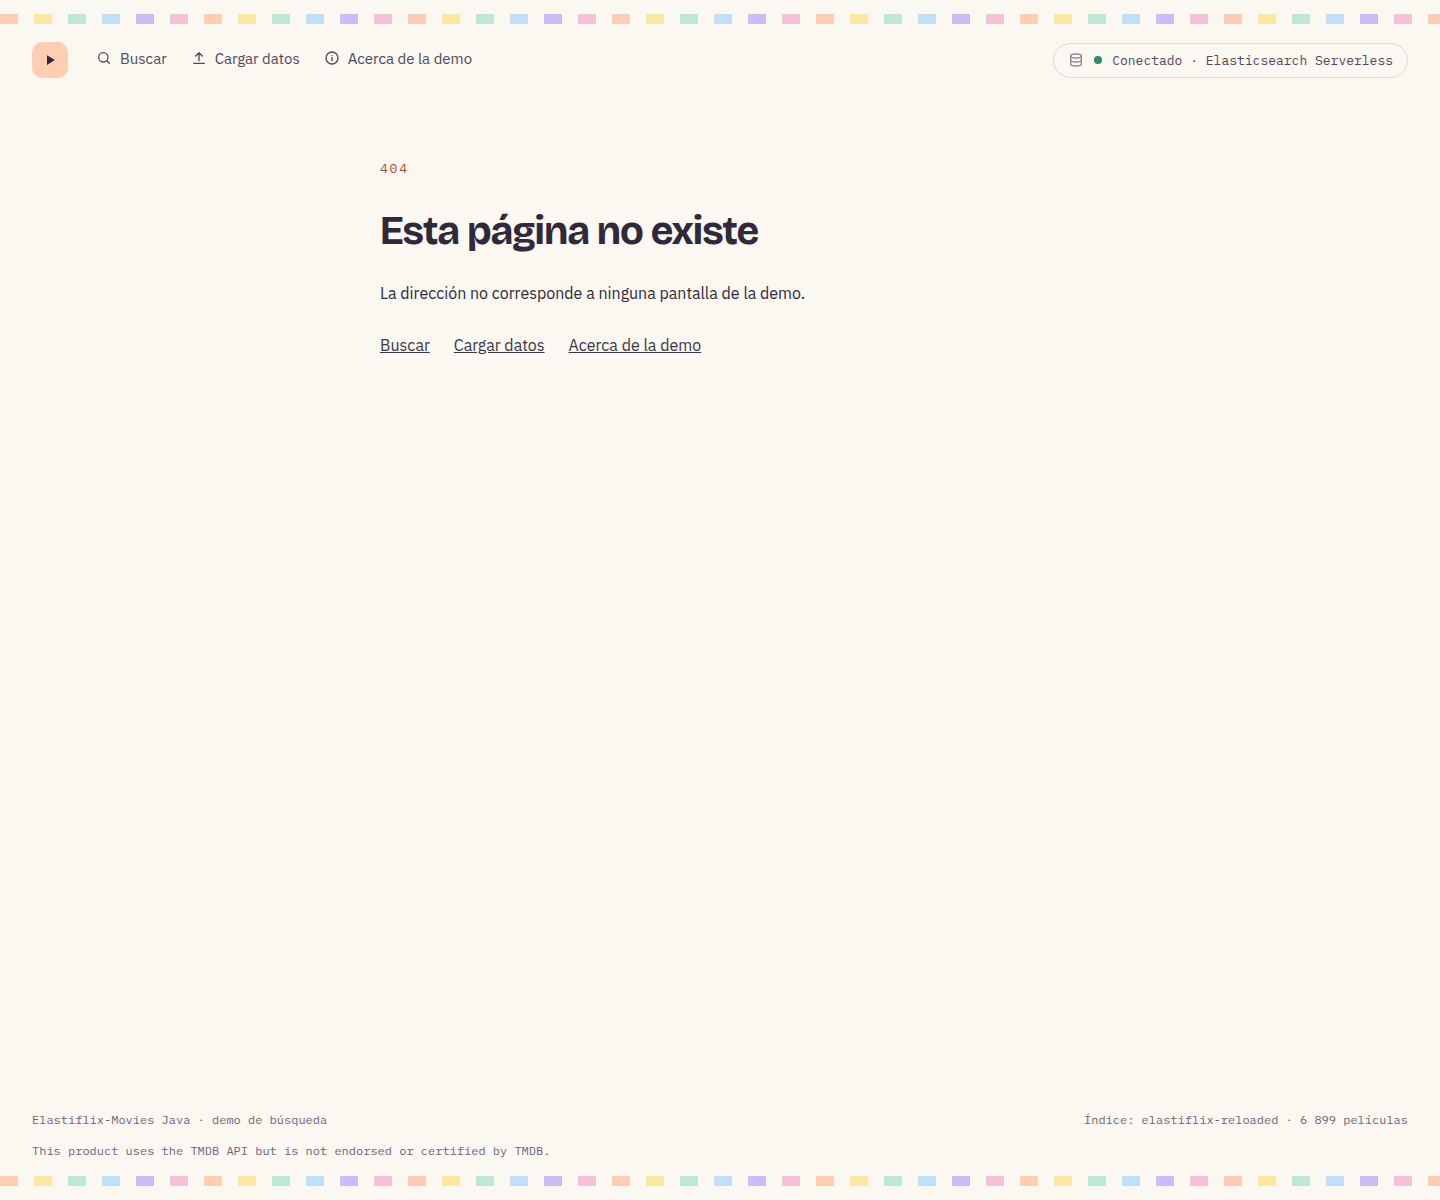
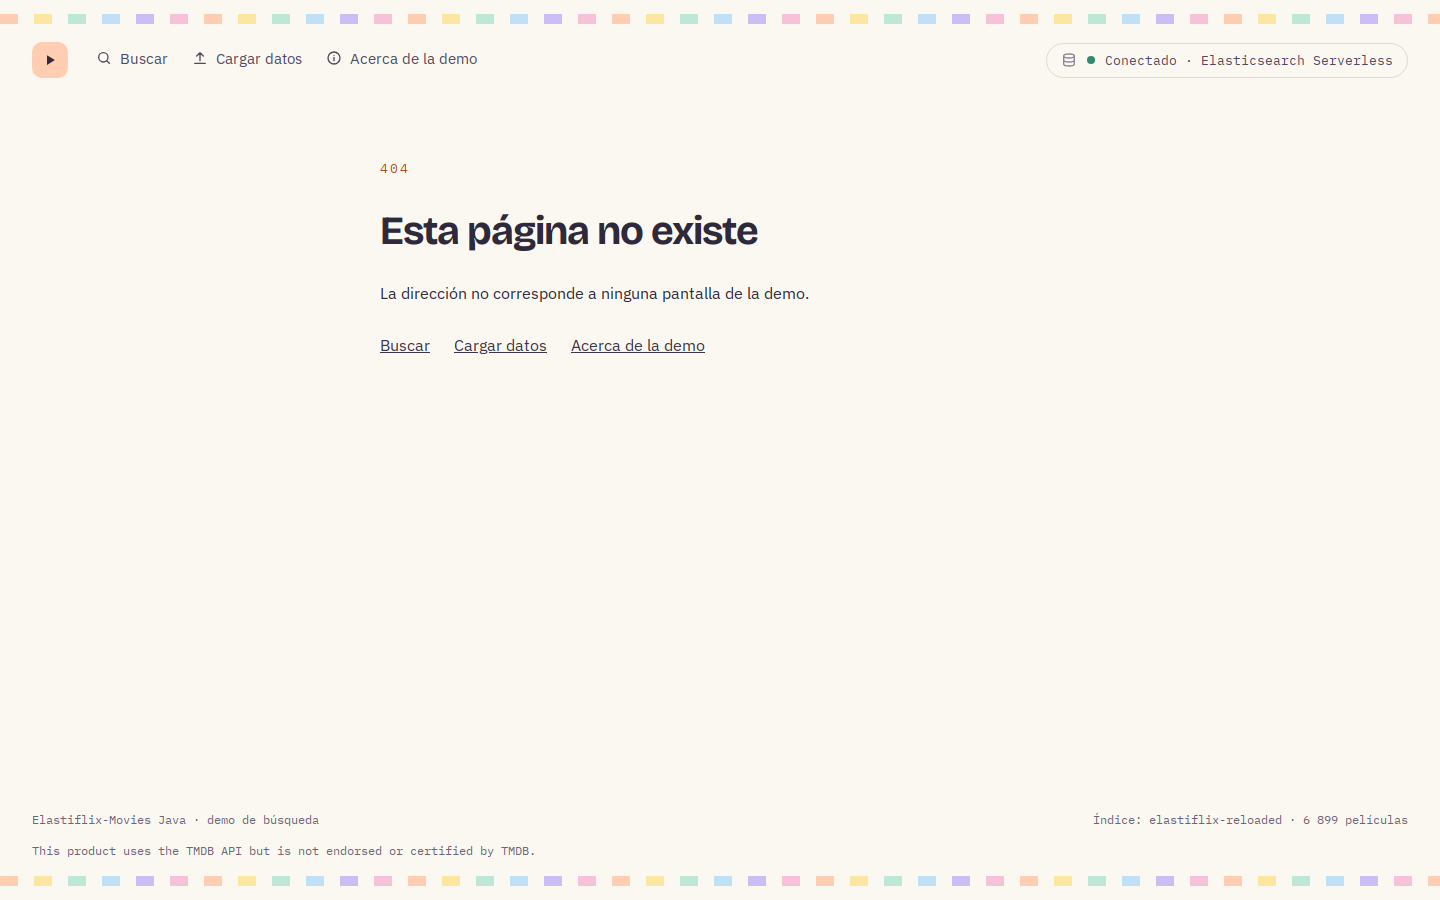
S-18: capturas de página completa con datos reales y comparación nueva

diff --git a/progreso/4.md b/progreso/4.md
@@ -78,17 +78,27 @@ Respuestas a `docs/convenciones-java.md` §16:
 - [x] ¿Las pruebas de integración de escritura usan su propio alias y lo borran al terminar? Esta fase no escribe en Elasticsearch. Las pruebas de página simulan las fachadas. Arrancar la aplicación solo leyó `elastiflix-reloaded`.
 - [x] ¿Un programador Junior entendería las clases principales sin explicación adicional? Sí. Cada página es un controlador y una plantilla. Javadoc en español y nombres en inglés.
 
-## Comparación con los mockups (R-21)
+## Comparación con los mockups (R-21, rehecha en S-18)
 
-Capturas del 2026-10-18 17:45 UTC, ventana 1440 px, aplicación en http://localhost:8080 leyendo el alias vigente. Quedan en `docs/capturas/`. Adolfo Orozco aprobó la fidelidad visual el 2026-10-18; queda en `progreso/INDICE.md`.
+Capturas de página completa del 2026-10-18 23:00 UTC, ventana 1440 px, Chromium 131 (Playwright 1.49.1), con
+la aplicación conectada al alias `elastiflix-reloaded` real (índice `elastiflix-reloaded-20261018-054429`,
+6 899 películas). Quedan en `docs/capturas/`. Sustituyen a las cinco de R-21, que no reflejaban la interfaz
+(S-18). La aprobación de R-21 ya no vale para estas; la confirmación nueva queda en `progreso/INDICE.md`.
 
-| Página | Captura | Mockup | Qué coincide |
-|---|---|---|---|
-| Inicio | `inicio.png` | `design/mockups/Main.dc.html` | Cabecera Buscar, Resultados, Cargar datos y Acerca de; título «Elastiflix-Movies Java»; modos Full-text, Vectorial e Híbrida; campo de consulta; sugerencias en tonos pastel. |
-| Resultados | `resultados.png` | `design/mockups/Results.dc.html` | «57 resultados» y «Mostrando 1–25 de 57 resultados»; panel Filtros; chips «Campo: title» y «Operador: OR»; título «Puntuación»; selector 25/50/100; tarjetas con póster, año, géneros y posición. |
-| Cargar datos | `cargar.png` | `design/mockups/Ingest.dc.html` | Título «Cargar datos»; tarjetas de archivo y de registro; «Archivo JSON»; tabla «Se recibió / El mapping espera»; «Importación bloqueada» y el paso 4. |
-| Acerca de | `acerca.png` | `design/mockups/About.dc.html` | «Acerca de la demo»; los tres modos; tabla de precisión; catálogo `elastiflix-reloaded` con el conteo real (6 899), no el 4 322 fijo del mockup. El rótulo histórico queda en R-30. |
-| 404 | `no-encontrada.png` | no hay mockup; lo pide el plan | «Esta página no existe». Enlaces a Buscar (`/`), Cargar datos y Acerca de. No enlaza `/buscar` sin consulta. |
+| Página | Captura | Mockup | Qué coincide | Diferencias que quedan |
+|---|---|---|---|---|
+| Inicio | `inicio.png` | `Main.dc.html` | Navegación Buscar, Cargar datos y Acerca de la demo (sin «Resultados»); insignia «Conectado · Elasticsearch Serverless»; título «Elastiflix-Movies Java»; modos Full-text, Vectorial e Híbrida; panel celeste con match/multi-match, title/original_title, OR/AND y la nota BM25; sugerencias Spirited Away, dark knight y love story en pastel. | Las etiquetas de las sugerencias («OR: 40 resultados», «OR: 65 resultados») son las del mockup y describen el catálogo histórico de 4 322 películas (PLAN §1); sobre las 6 899 actuales, «dark knight» OR da 57. |
+| Resultados · Full-text | `resultados-fulltext.png` | `Results.dc.html` | «dark knight», match · title · OR: «57 resultados», «Ordenados por puntuación BM25», chips Full-text, `match · title`, `OR` y «Cambiar ajustes»; panel Filtros rosa con leyendas (adulto, géneros, fecha, idiomas, clasificación) y «Aplicar»; tarjetas con posición sobre el póster, título, meta mono, sinopsis, estrella y votos; columna «Puntuación BM25»; selector 25; paginación «Anterior 1 2 3 Siguiente» con la actual en durazno; nota final sobre BM25. | Ninguna de forma. Los títulos y conteos son los del catálogo real. |
+| Resultados · Vectorial | `resultados-vectorial.png` | `Results.dc.html` | Consulta en español, `plot_1024`, k 100, `num_candidates` 200: «100 resultados», «Ordenados por similitud k-NN», aviso de que k-NN devuelve como máximo k y los filtros se calculan sobre esos resultados, facetas con conteos de la página, columna «Similitud k-NN», paginación de 4 páginas, nota sobre coseno. | Ninguna de forma. |
+| Resultados · Híbrida | `resultados-hibrida.png` | `Results.dc.html` | `plot_256`, match · title · OR, k 100: «100 resultados», «Ordenados por fusión RRF», aviso de `rank_window_size = k`, columna «Puntuación en cada lista» con BM25, Similitud k-NN con la posición en cada lista y RRF; Titanic primero. | Ninguna de forma. |
+| Cargar datos · Registro individual | `cargar-registro.png` | `Ingest.dc.html` | Etiqueta «Índice elastiflix-reloaded», «Cargar datos», texto de los tres vectores, pestañas con su pastel; cinco tarjetas (Identificación y títulos, Sinopsis y textos, Clasificación fecha y estado, Métricas, Reparto producción y medios) con el nombre del campo en mono; «Limpiar» y «Guardar película». | El selector de fecha muestra `mm/dd/yyyy` porque lo dibuja Chromium con la configuración regional en inglés; el valor enviado es `yyyy-MM-dd`. |
+| Cargar datos · CSV válido | `cargar-csv-valido.png` | `Ingest.dc.html` | `movies-sample.csv` (fixture de 4 filas, 34 columnas): zona de arrastre con «Solo .csv», «Máximo 150 MB», «Texto UTF-8»; separador, codificación y casilla de encabezado; pasos 1 a 3 completados y paso 4 «listo para empezar»; tabla «Correspondencia de columnas» (34 de 34; `genres` «Lista JSON de textos», `cast` «Lista JSON de textos», `keywords` «Lista JSON de objetos anidados», `user_score` «Sin datos», `plot_*` «Se ignora»); cajas 4 · 4 · 4 · 0; dos comprobaciones; aviso amarillo de `plot_*`; tarjeta «Importación» con «0 de 4 importadas · lote 0 de 1 · índice temporal elastiflix-reloaded-AAAAMMDD-HHMMSS» e «Importar 4 registros». No se importó nada. | El tamaño se muestra en MB con un decimal («0.1 MB»). |
+| Cargar datos · CSV inválido | `cargar-csv-invalido.png` | `Ingest.dc.html` | `peliculas-nuevas.csv` (7 columnas, 4 filas, preparado para la captura): paso 3 «detenido» en rojo; columna `director` «No existe en el mapping»; cajas 4 · 1 · 0 · 4; alerta rosa «La carga se detuvo…» con «4 errores en 3 registros» y la tabla Fila/Id/Campo/Se recibió/El mapping espera (encabezado `director`; fila 3 `release_date` «16/07/1999»; fila 4 `adult` «yes»; fila 5 `vote_count` «12.5»); «Descargar informe completo (.csv)»; «Importación bloqueada». | Un archivo de menos de 0,05 MB muestra «0.0 MB». |
+| Acerca de | `acerca.png` | `About.dc.html` | Etiqueta «Acerca de la demo», «Tres formas de buscar una película», tres tarjetas en fila con icono; secciones Full-text, Vectorial, Híbrida, Resultados y filtros, Carga de datos y El catálogo con encabezado de icono; paneles BM25 celeste, k-NN y precisión verdes, RRF lila, «Cuando no hay resultados» rosa; tabla de precisión; tabla de campos del catálogo; «Créditos» con el texto y el logo de TMDB. | El texto del catálogo da el conteo real (6 899) en lugar del 4 322 fijo del mockup; la tabla de precisión y los datos de `adult` y `release_date` se rotulan como medidos en el catálogo original de 4 322 (D3). |
+| 404 | `no-encontrada.png` | no hay; lo pide el plan | «404», «Esta página no existe», enlaces Buscar (`/`), Cargar datos y Acerca de la demo; pie con el conteo real. | — |
+
+En todas: pie «Elastiflix-Movies Java · demo de búsqueda», «Índice: elastiflix-reloaded · 6 899 películas» y la
+atribución de TMDB en texto; bandas de color arriba y abajo.
 
 ## Bloqueos y solicitudes
 

diff --git a/progreso/revision-2.md b/progreso/revision-2.md
@@ -19,12 +19,10 @@ en curso
 ## Punto de reanudación
 
 - **Tarea actual:** S-18 (después S-19)
-- **Subpaso en curso:** ninguno
-- **Próximo paso:** S-18: arrancar la app con el `.env`, sacar capturas de página completa con datos reales
-  (Inicio; Resultados en los tres modos; Cargar datos en sus tres escenarios; Acerca de; 404) a
-  `docs/capturas/`, escribir la comparación página por página en `progreso/4.md` y pedir a Adolfo la
-  confirmación visual. Después, S-19.
-- **Última actualización:** 2026-10-18 22:55 UTC
+- **Subpaso en curso:** S-18 esperando la confirmación visual de Adolfo sobre las nueve capturas nuevas
+- **Próximo paso:** S-18: registrar la respuesta de Adolfo en «Aprobaciones» de `progreso/INDICE.md` (o
+  corregir lo que señale y rehacer las capturas) y cerrar la fila de S-18. Después, S-19.
+- **Última actualización:** 2026-10-18 23:03 UTC
 
 ## Tareas
 
@@ -50,7 +48,7 @@ en curso
 | S-15 | terminada | `cf177a4` | «Aprobaciones» de `progreso/INDICE.md` tiene una fila para D1, D2, D3 y el cambio del mockup de B-05. Cada una dice lo que consta: las tomó el agente y Adolfo las aceptó al fusionar el PR #10 (`dc9a315`) o el #12 (`41c1188`); no se inventa una aprobación explícita. `progreso/revision-1.md`: R-04, R-09, R-11, R-12, R-15, R-16, R-18, R-19 y R-21 pasan a `incompleta` con «Incompleta: continúa en S-NN (revisión 2).» (9 filas). PLAN 3.0 y 3.2 y `docs/diseno/3.md` (supuesto 9, «Lectores», «Alternativas descartadas», «Cambios» con D2 y la nota de `EFX-ES-007`) describen la ingesta en memoria; `grep -n -i streaming PLAN.md docs/diseno/3.md` solo lo muestra como alternativa descartada o como el supuesto reemplazado. |
 | S-16 | terminada | `62c089d` | PLAN §1: encabezado «decisiones del usuario del 2026-10-17 y 2026-10-18»; filas nuevas del prefijo de las sinopsis (R-10 y el mockup editado en B-05) y de «Medido en el catálogo original de 4 322 películas» (R-30, D3). Comparación de textos visibles de los mockups con las páginas servidas (script `textdiff.py` sobre el HTML; en Resultados, el HTML de MockMvc de los tres modos, y cada texto que arma el script del mockup buscado palabra por palabra en su fuente): Inicio sin diferencias (las sugerencias salen del script del mockup); Resultados: leyendas, notas de límite, «Ordenados por…», títulos de puntuación, «Todos», «Solo no adultos», «Géneros: » y «Mostrando » están en el mockup; Cargar datos: las diferencias son las filas de §1 de S-03; Acerca de: las de D3 y un punto de más en «25 · 50 · 100 por página.», corregido (vuelve a ser `dt`/`dd` como en el mockup). Lo demás es dinámico (conexión, conteo). El texto sin conexión «El conteo no está disponible.» se registra con el pie en S-22. `./mvnw verify`: BUILD SUCCESS. |
 | S-17 | terminada | `fed7249` | `README.md`, `PLAN.md` (nota del catálogo), `AGENTS.md` (línea del catálogo; 11 617 caracteres), `docs/diseno/1.md` (l. 23 y tabla de pruebas), `docs/diseno/5.md` (nota, punto 1 y tabla) y `progreso/5.md` (l. 88 y 112) dicen que las pruebas afirman los 6 899 documentos y los valores de §6 y se omiten con `assumeTrue` si el conteo cambió. `diseno/5.md` registra R-05/D1 en «Cambios». `grep -rn` del criterio sobre `README.md PLAN.md AGENTS.md docs progreso` solo encuentra la propia especificación (`docs/revisiones/revision-2.md`, que no se edita). |
-| S-18 | pendiente | — | Las capturas y la comparación de R-21 no reflejan la interfaz real |
+| S-18 | esperando confirmación | `763f71e` y este commit | Nueve capturas de página completa con datos reales en `docs/capturas/` (inicio; resultados full-text, vectorial e híbrida; cargar registro, CSV válido y CSV inválido; acerca; 404), tomadas 2026-10-18 23:00 UTC con Playwright contra la app conectada al alias real. Se borraron `resultados.png` y `cargar.png`. Comparación página por página con las diferencias que quedan en `progreso/4.md`; README «Capturas» al día. Ajuste de S-03 visto en las capturas: la tabla de columnas distingue «Texto» de «Lista JSON de textos» (`763f71e`). Falta la confirmación de Adolfo. |
 | S-19 | pendiente | — | Con solo el README todavía no se puede preparar el catálogo |
 | S-20 | terminada | `496a9b1` | `ElasticsearchDiagnostics.codeFor`: 401 y 403 → `EFX-ES-001` («La URL o la API key no son válidas…»), igual que el pie; el resto de los 4xx → `EFX-ES-007`. `HybridSearchStrategy.rejected` usa `codeFor(status del ítem)`. `docs/diseno/2.md` actualizado (errores y log). Pruebas: `ElasticsearchDiagnosticsTest.shouldTreatBadCredentialsAsUnavailable` (401, 403, 500, 400) y `KnnStrategiesTest.shouldFailWhenAPartOfTheMultiSearchFails` (ítem 500 → `EFX-ES-001`). Mutaciones, una a la vez y revertidas: 401 tratado como 4xx → la primera; híbrida con `EFX-ES-007` fijo → la segunda. `./mvnw verify`: BUILD SUCCESS. |
 | S-21 | terminada | `e33400e` | Textos neutros: `REINDEX_COUNT_MISMATCH` y `REINDEX_FAILED` dicen «Vuelve a ejecutar la importación o la migración» y que el índice nuevo se borra (si el original sigue, en `REINDEX_FAILED`); `ALIAS_PUBLISH_FAILED` ya no afirma «Se borró el índice temporal» (dice que se borra y, si no se pudo, lo limpia la próxima importación); `PUBLISH_UNCERTAIN` da una causa que también vale cuando `describe` respondió. Javadoc de `ElasticsearchAccessException` con `EFX-IMP-006`. `FileGate.open` elige `EFX-ING-015` para un `.csv` ilegible y `EFX-ING-013` para un JSON; `MovieDocuments.fromNode` usa `EFX-ING-012` (sirve a los dos formatos). `PlotVectorizer.attach` ya usaba `EFX-EMB-004` desde S-14. Pruebas: `ErrorContextTest` (CSV → 015, JSON → 013, `fromNode` → 012, textos neutros). Mutaciones, una a la vez y revertidas: `FileGate` siempre JSON → `shouldNameTheFileKindWhenTheFileCannotBeRead`; `fromNode` con 013 → `shouldUseTheTypeCodeWhenAValueDoesNotFitTheModel`. `./mvnw verify`: BUILD SUCCESS. |

diff --git a/progreso/INDICE.md b/progreso/INDICE.md
@@ -13,9 +13,10 @@
 - **Lista de correcciones:** [`docs/revisiones/revision-2.md`](../docs/revisiones/revision-2.md) (dónde,
   problema, corrección y criterio de cada una)
 - **Estado de las tareas:** [`progreso/revision-2.md`](revision-2.md)
-- **Próximo paso:** S-18: capturas con datos reales y confirmación visual de Adolfo; después S-19 (ver
-  `progreso/revision-2.md`). S-01 a S-17 y S-20 a S-27 terminadas; `./mvnw verify -Pit` en verde.
-- **Última actualización:** 2026-10-18 22:55 UTC
+- **Próximo paso:** S-18: las nueve capturas nuevas están en `docs/capturas/` y la comparación en
+  `progreso/4.md`; falta la confirmación visual de Adolfo. Después S-19 (ver `progreso/revision-2.md`).
+  S-01 a S-17 y S-20 a S-27 terminadas; `./mvnw verify -Pit` en verde.
+- **Última actualización:** 2026-10-18 23:03 UTC
 
 ## Fases
 
@@ -52,7 +53,7 @@
 | 2026-10-18 | Fase 6 aprobada y fusionada en `main` | Adolfo revisó y aprobó la Fase 6. El PR #7 quedó fusionado en `main` (merge commit `eb309d9`). |
 | 2026-10-18 | Corrección de documentación fusionada en `main` | Adolfo aprobó el PR #8. Quedó fusionado en `main` (merge commit `22dac52`). Después se borraron las ramas remotas `cursor/*` de las fases 0 a 6. |
 | 2026-10-18 | Criterios de §6 relajados, fusionados en `main` | El PR #9 (`cursor/revision-docs-29a6`, merge `dc44535`, commit `2a3aaea`) dejó de afirmar los totales de 4 322 y lee `_count`. La revisión 1 (R-05, D1) restituye los valores exactos sobre 6 899 películas. |
-| 2026-10-18 | Capturas de R-21 | Adolfo Orozco aprobó la fidelidad visual de las cinco capturas en `docs/capturas/` (inicio, resultados, cargar, acerca, no-encontrada). |
+| 2026-10-18 | Capturas de R-21 | Adolfo Orozco aprobó la fidelidad visual de las cinco capturas en `docs/capturas/` (inicio, resultados, cargar, acerca, no-encontrada). Sustituida por S-18: esas capturas no reflejaban la interfaz y se reemplazaron; la aprobación nueva va aparte. |
 | 2026-10-18 | Importación de `movies.json` al catálogo real | Adolfo eligió reemplazar el índice de `elastiflix-reloaded`. Arranque 05:44:29 UTC y publicación 05:49:22 UTC (unos 4 min 54 s). Arreglo JSON de 6899 registros, validación `valido`, 0 errores y 5055 advertencias (`EFX-ING-022`: 4960, `EFX-ING-021`: 95). Índice nuevo `elastiflix-reloaded-20261018-054429` con 6899 documentos. Se borró `elastiflix-reloaded-20261018-003535`. Una lectura posterior contó `title`, `plot`, `plot_256`, `plot_512` y `plot_1024` en 6899/6899. |
 | 2026-10-18 | Revisión 1 fusionada en `main` | Adolfo fusionó el PR #10 (merge `dc9a315`). |
 | 2026-10-18 | Decisión D1 de la revisión 1 (R-05) | Las pruebas de §6 vuelven a afirmar los valores exactos sobre 6 899 películas y se omiten con `assumeTrue` si `_count` cambió. La tomó el agente en la revisión 1 (`progreso/revision-1.md`, «Decisiones»); Adolfo la aceptó al fusionar el PR #10 (`dc9a315`). No hay otra aprobación registrada. |

diff --git a/README.md b/README.md
@@ -419,15 +419,20 @@ tipografías **Bricolage Grotesque**, **IBM Plex Sans** e **IBM Plex Mono**. Tok
 
 ## 📸 Capturas
 
-Tomadas el 2026-10-18 con la aplicación en http://localhost:8080, leyendo el alias
-`elastiflix-reloaded`. El pie muestra el conteo real. El índice y el número vigentes están en
-[`progreso/INDICE.md`](progreso/INDICE.md) › «Catálogo vigente».
+Capturas de página completa tomadas el 2026-10-18 con la aplicación conectada al alias
+`elastiflix-reloaded` real. El pie muestra el conteo real. El índice y el número vigentes están en
+[`progreso/INDICE.md`](progreso/INDICE.md) › «Catálogo vigente». La comparación con los mockups está en
+[`progreso/4.md`](progreso/4.md).
 
 | Página | Captura |
 |---|---|
 | Inicio `GET /` | ![Inicio](docs/capturas/inicio.png) |
-| Resultados `GET /buscar` | ![Resultados](docs/capturas/resultados.png) |
-| Cargar datos `GET /cargar` | ![Cargar datos](docs/capturas/cargar.png) |
+| Resultados · Full-text | ![Resultados full-text](docs/capturas/resultados-fulltext.png) |
+| Resultados · Vectorial | ![Resultados vectorial](docs/capturas/resultados-vectorial.png) |
+| Resultados · Híbrida | ![Resultados híbrida](docs/capturas/resultados-hibrida.png) |
+| Cargar datos · Registro individual | ![Registro individual](docs/capturas/cargar-registro.png) |
+| Cargar datos · CSV válido, listo para importar | ![CSV válido](docs/capturas/cargar-csv-valido.png) |
+| Cargar datos · CSV que no coincide con el mapping | ![CSV inválido](docs/capturas/cargar-csv-invalido.png) |
 | Acerca de `GET /acerca` | ![Acerca de](docs/capturas/acerca.png) |
 | Ruta desconocida | ![No encontrada](docs/capturas/no-encontrada.png) |
 
